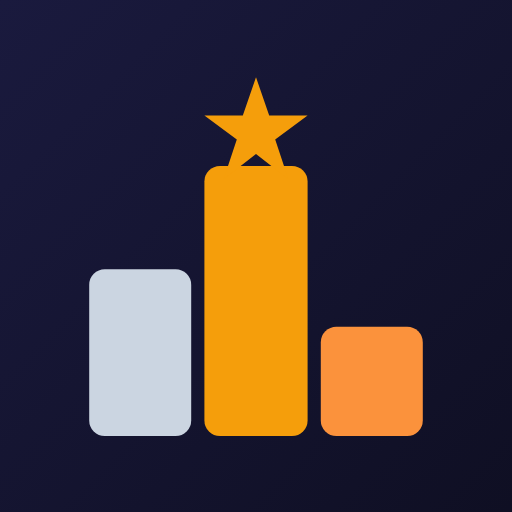
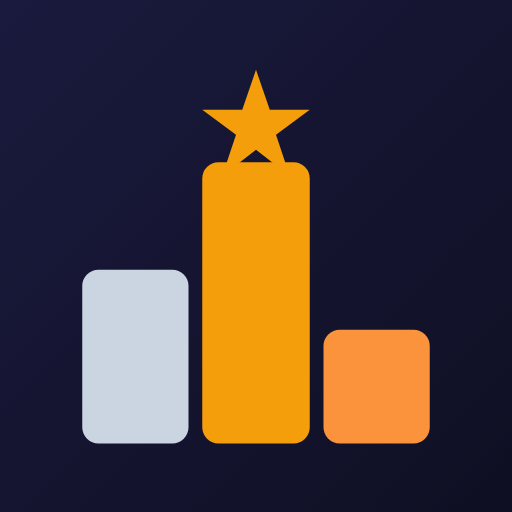
ícone a 1,25x — o limite medido, escolhido pelo dono
Pódio a 97% do raio (era 78%). Acima de 1,26x os cantos de baixo encostam na borda
do recorte redondo; em 1,32x são cortados — medido nos quatro renders, não estimado.

Changed region(s): [[0.1562, 0.1562, 0.8438, 0.875]]

diff --git a/docs/CHANGELOG.md b/docs/CHANGELOG.md
@@ -21,8 +21,9 @@ que mudou dentro dela?": prazos passam, formato, grupos e número de rodadas con
 que o servidor grava é a mescla que ele mesmo monta a partir do documento fresco.
 
 Ícone do app na web: o pódio passa a encher o espaço. Ele ocupava pouco mais da metade do quadrado e
-aparecia pequeno ao lado dos outros atalhos do navegador; agora vai a 1,20× — o limite medido para
-que os cantos de baixo do pódio não sejam cortados pelo recorte redondo que o atalho aplica. Vale
+aparecia pequeno ao lado dos outros atalhos do navegador; agora vai a 1,25× — o limite medido para
+que os cantos de baixo do pódio não sejam cortados pelo recorte redondo que o atalho aplica (o
+pódio passa a ocupar 97% do raio, contra 78% de antes). Vale
 para o favicon, o atalho e o ícone do PWA; o ícone das lojas não muda.
 
 Ícone do site: `/favicon.ico` passa a existir na raiz. Os ícones do manifest e das tags `<link>`
